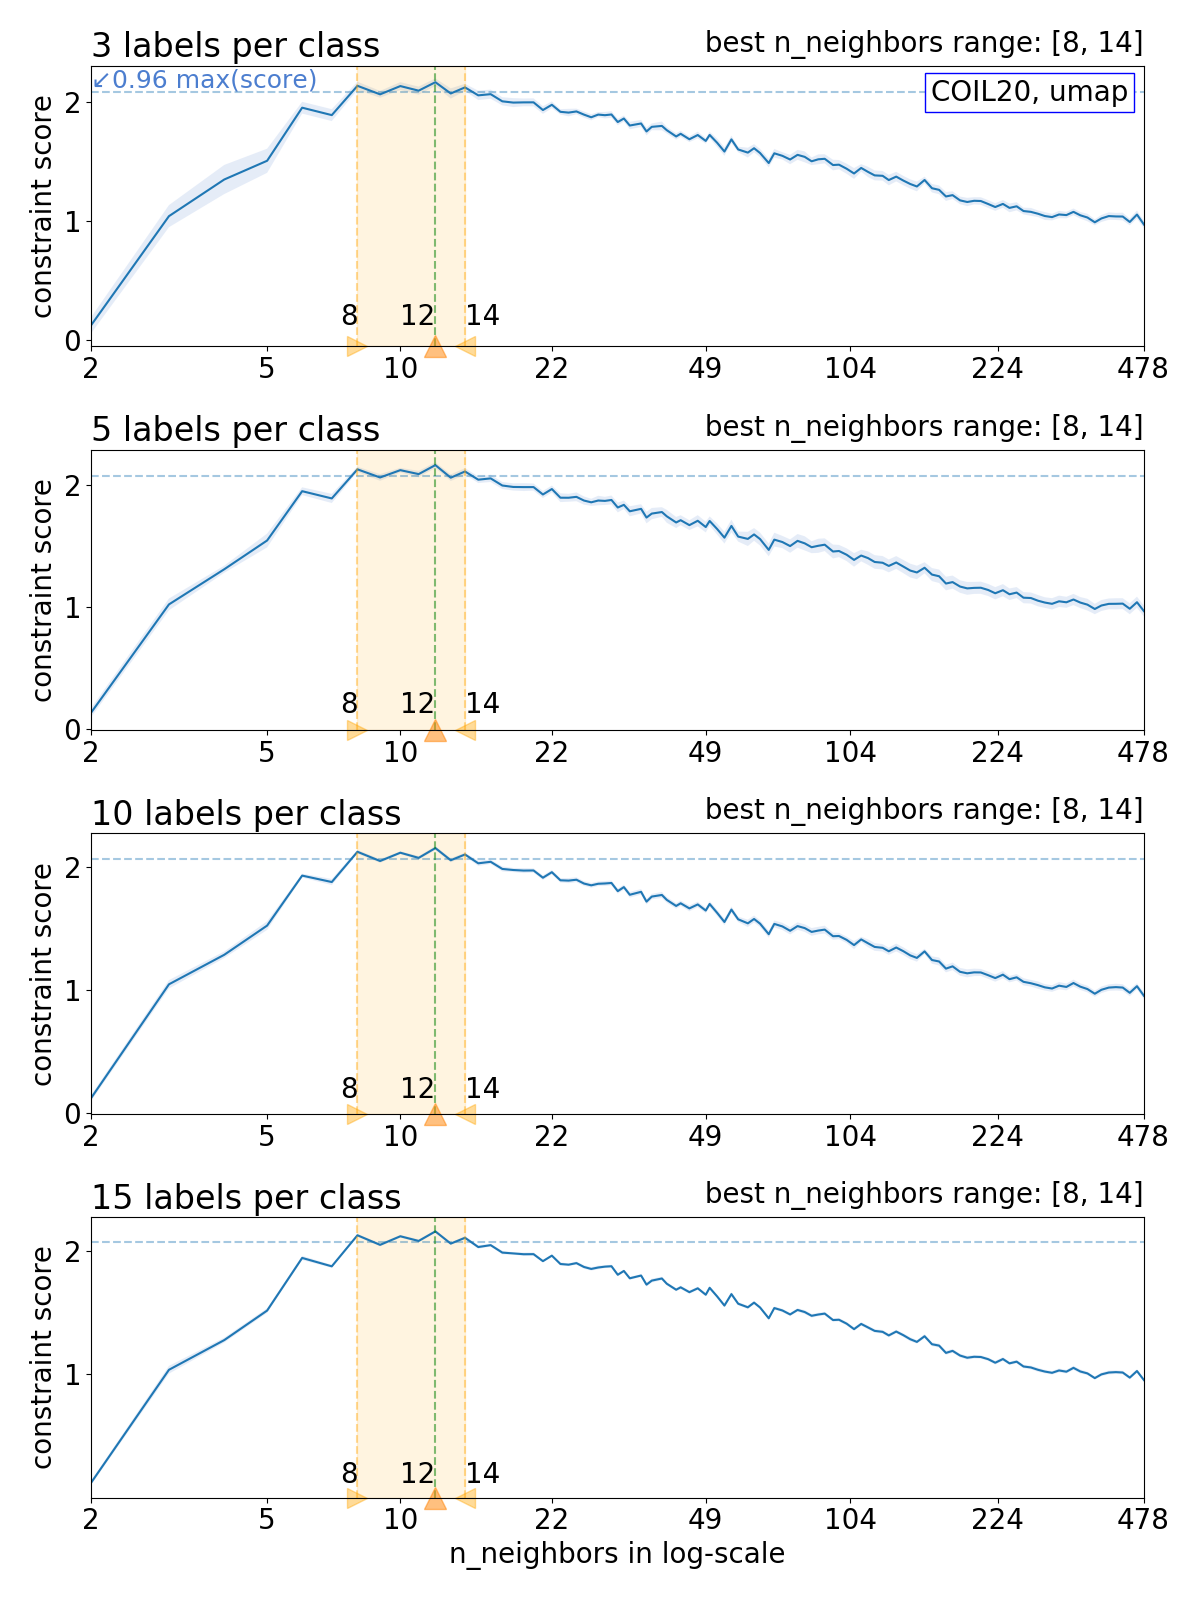
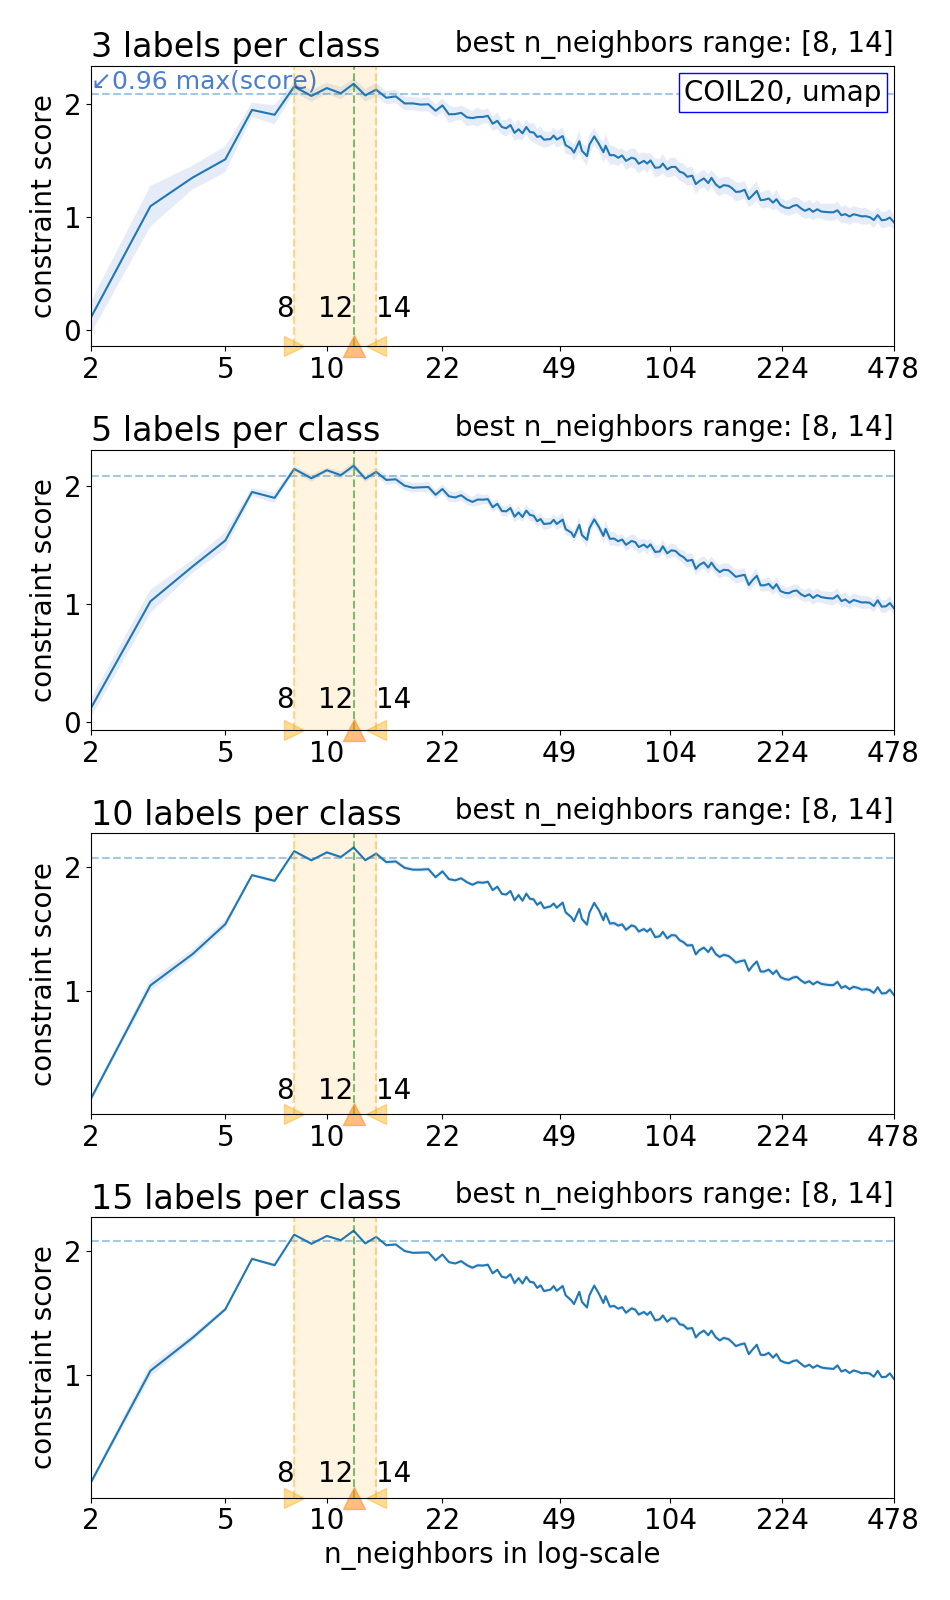
minor update figure sizes for score stability

diff --git a/code/run_score.py b/code/run_score.py
@@ -148,7 +148,7 @@ def plot_scores_with_std(dataset_name, method_name, score_name, list_n_labels_va
 
     # prepare subplots
     n_rows = len(list_n_labels_values)
-    _, axes = plt.subplots(n_rows, 1, figsize=(12, 4*n_rows))
+    _, axes = plt.subplots(n_rows, 1, figsize=(9.5, 4*n_rows))
 
     for ax, n_labels_each_class in zip(np.array(axes).ravel(), sorted(list_n_labels_values)):
         first_plot = n_labels_each_class == min(list_n_labels_values)
